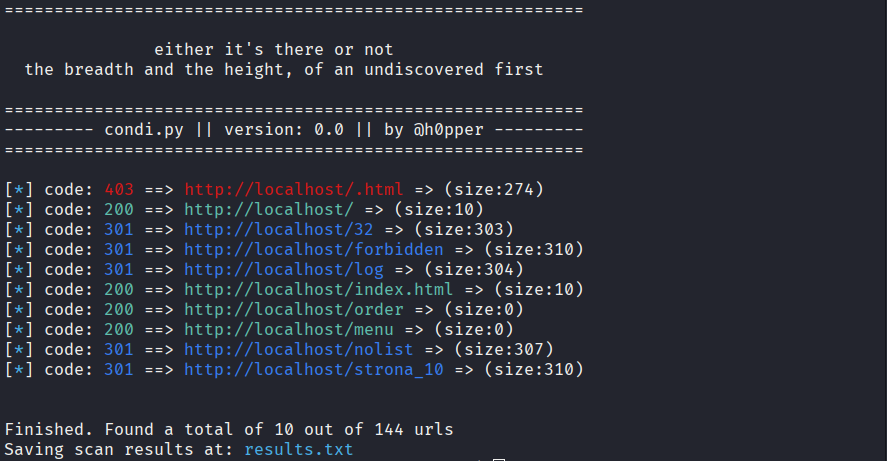
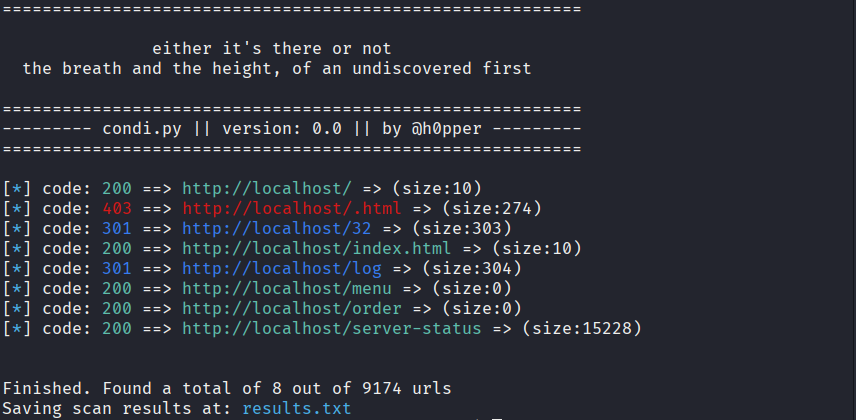
fixes

diff --git a/condi.py b/condi.py
@@ -20,7 +20,7 @@ banner = f"""
     \r{"="*len(title)}
     
     \r               either it's there or not                
-    \r  the breadth and the height, of an undiscovered first     
+    \r  the breath and the height, of an undiscovered first     
     
     \r{"="*len(title)}
     \r{title}
@@ -198,10 +198,13 @@ class Condi:
                 req = requests.get(url, headers=self.headers, allow_redirects=False)
                 self.count += 1
                 if req.status_code not in self.negative_codes:
-                    self.total_found += 1
-                    self.urls_found.append(self.found_url_str.format(req.status_code, url, len(req.content)))
-                    if self.worker_loop:
-                        self.print_discovered(req.status_code, url, len(req.content))
+                    if self.found_url_str.format(req.status_code, url, len(req.content)) in self.urls_found:
+                        continue
+                    else:
+                        self.total_found += 1
+                        self.urls_found.append(self.found_url_str.format(req.status_code, url, len(req.content)))
+                        if self.worker_loop:
+                            self.print_discovered(req.status_code, url, len(req.content))
 
     def run_scan(self):
         print(banner)
